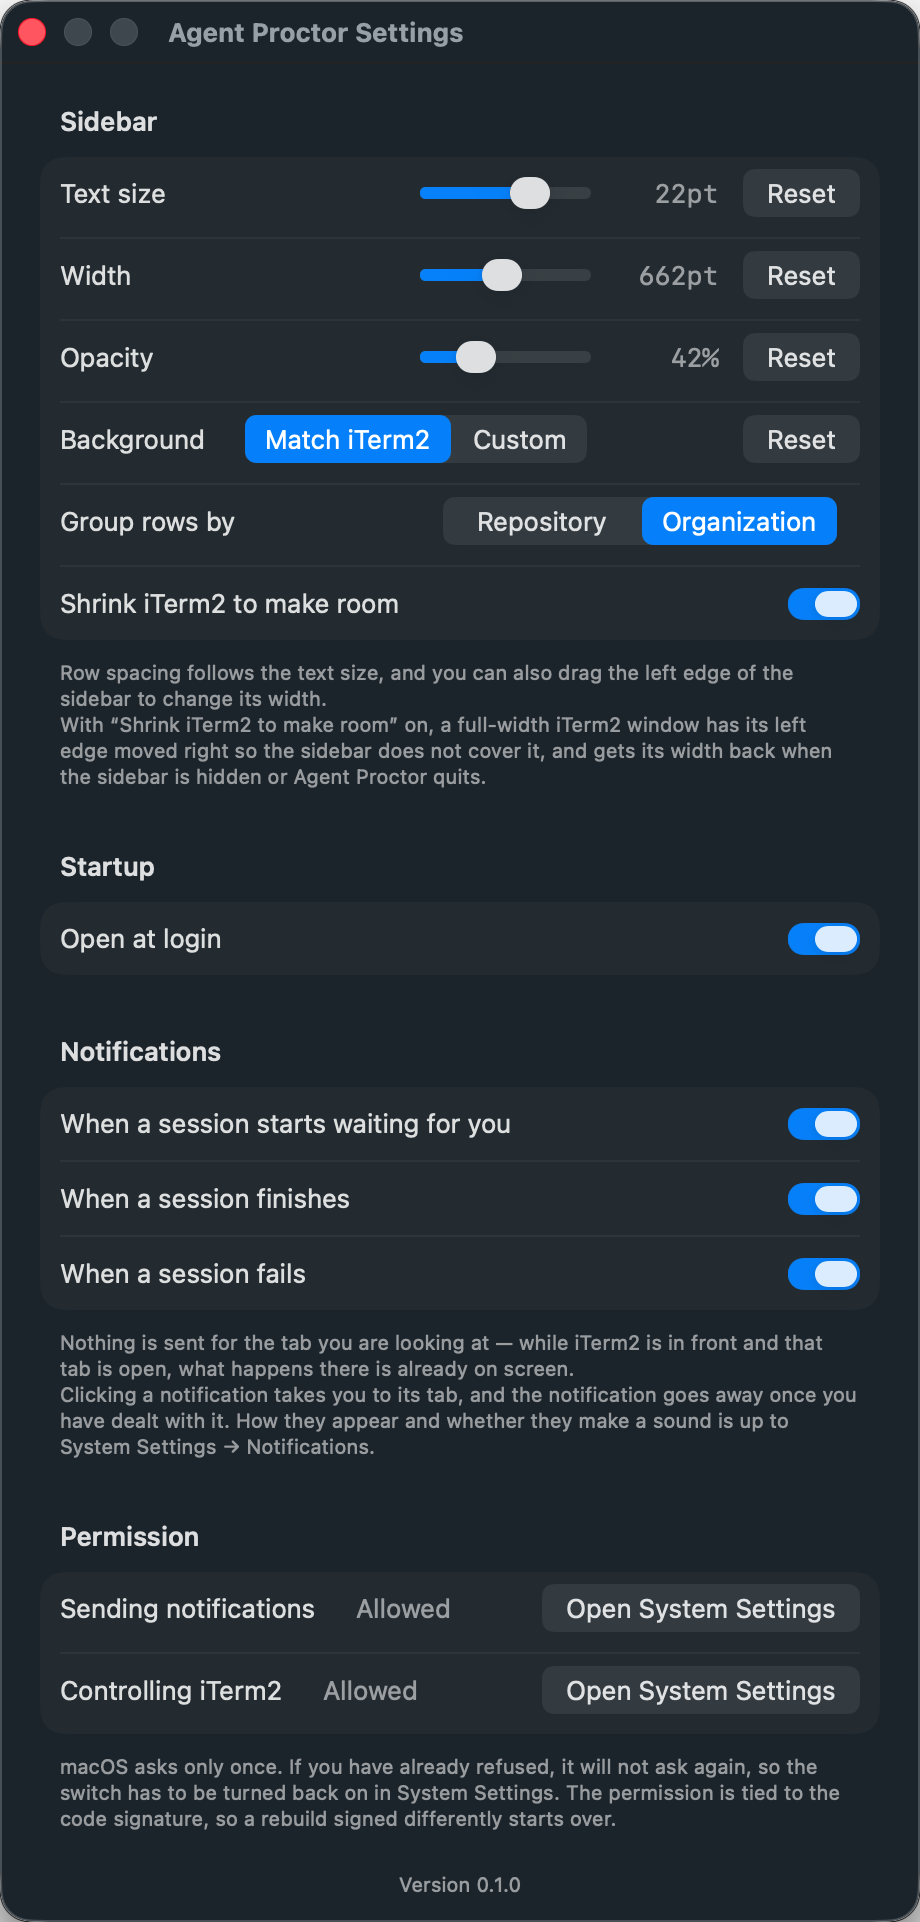
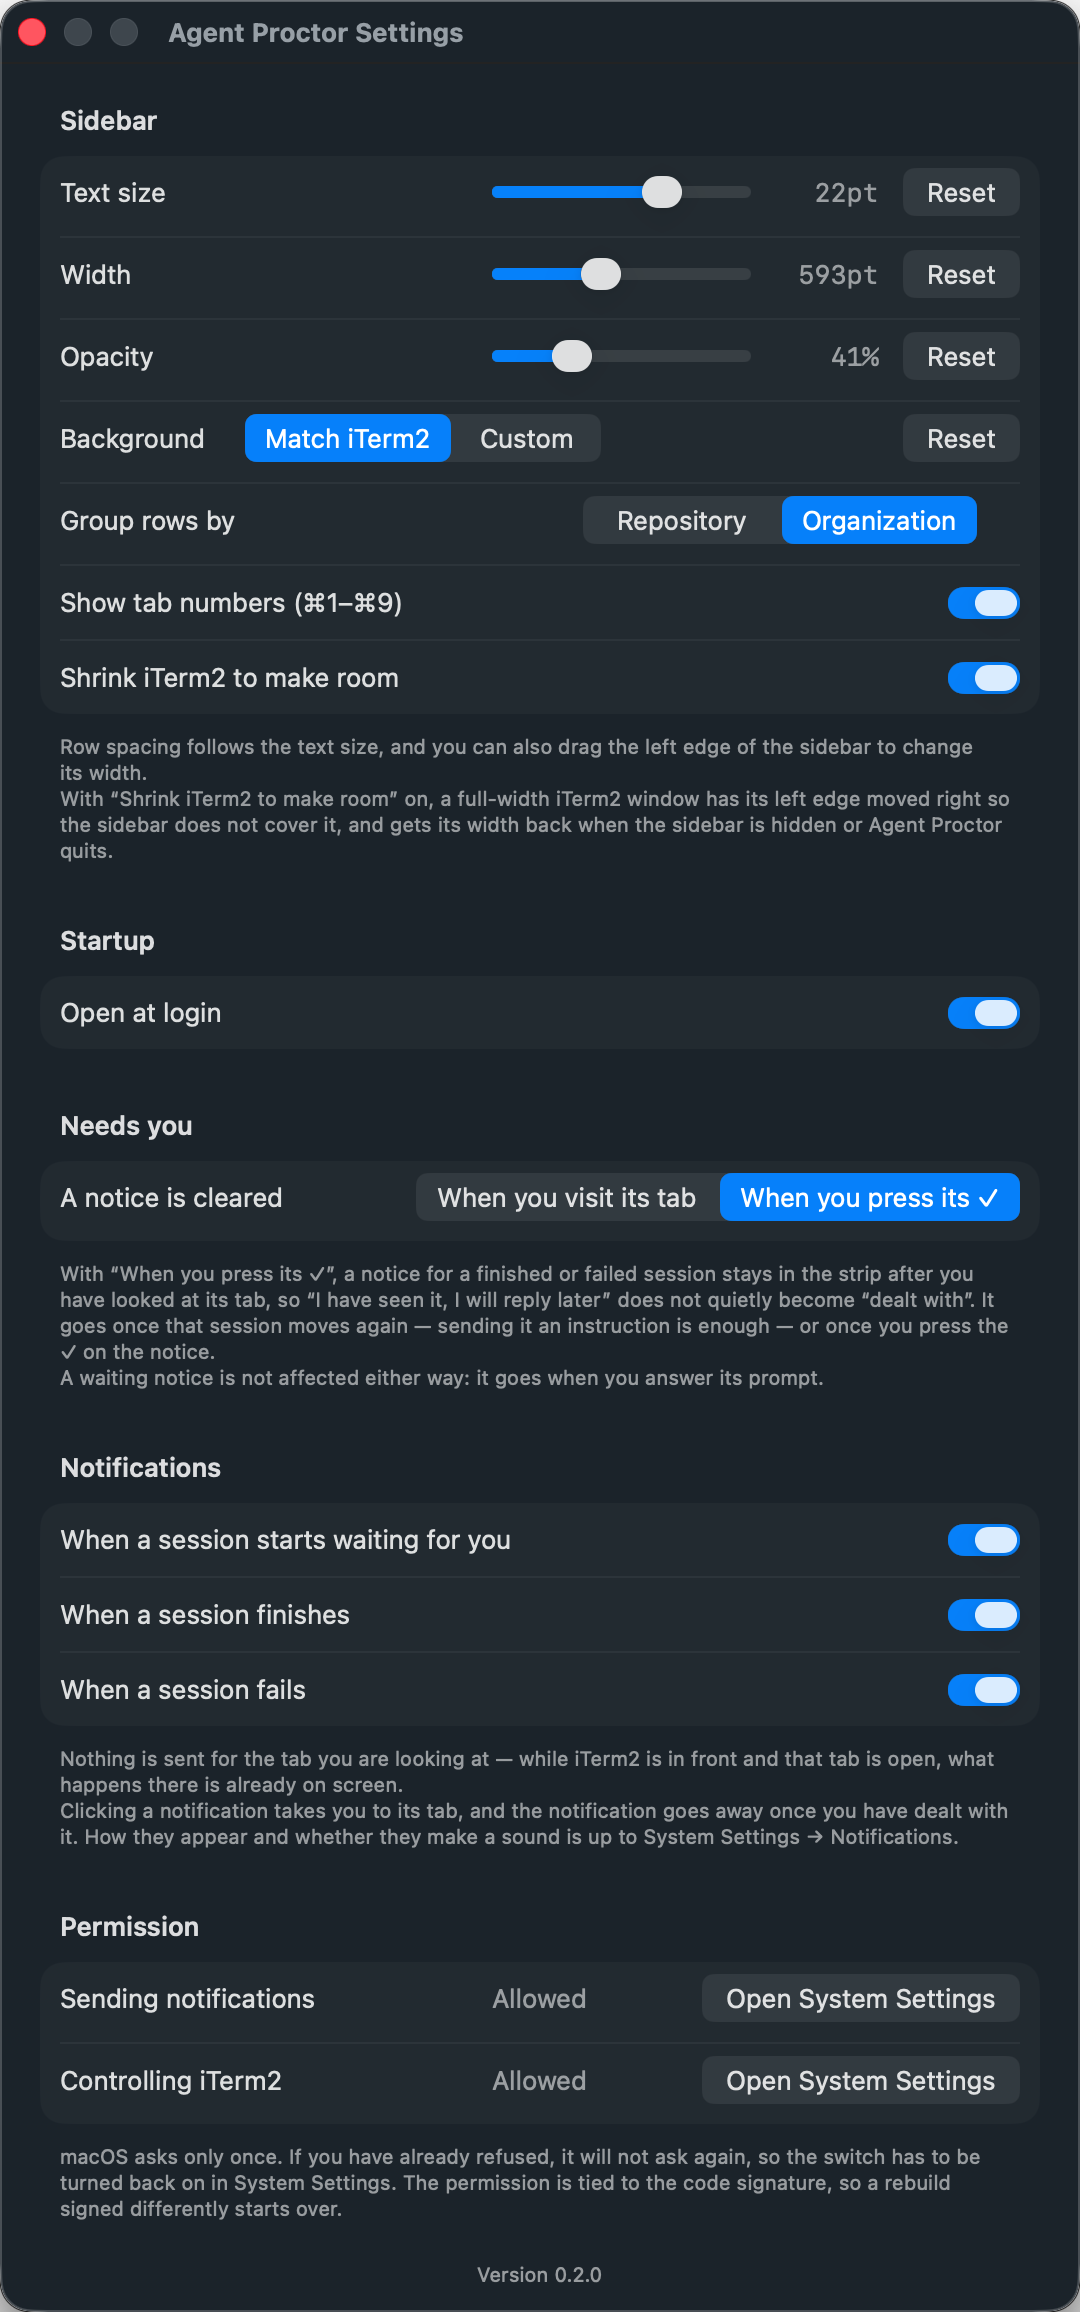
Take the settings shot again with the new section

diff --git a/README.md b/README.md
@@ -100,7 +100,7 @@ Open *Settings…* and turn on *Open at login*, and it will start on its own fro
 then on. The sidebar's text size, width and grouping are set there too.
 
 <p align="center">
-  <img src="docs/images/settings.png" alt="The settings window: sidebar text size, width, opacity, background, how rows are grouped, the make-room toggle, open at login, which of waiting, finishing and failing are notified, whether sending notifications and controlling iTerm2 are allowed, and the version" width="460">
+  <img src="docs/images/settings.png" alt="The settings window: sidebar text size, width, opacity, background, how rows are grouped, the make-room toggle, open at login, when a notice is cleared from the Needs you strip, which of waiting, finishing and failing are notified, whether sending notifications and controlling iTerm2 are allowed, and the version" width="540">
 </p>
 
 ## Wiring up your agent
